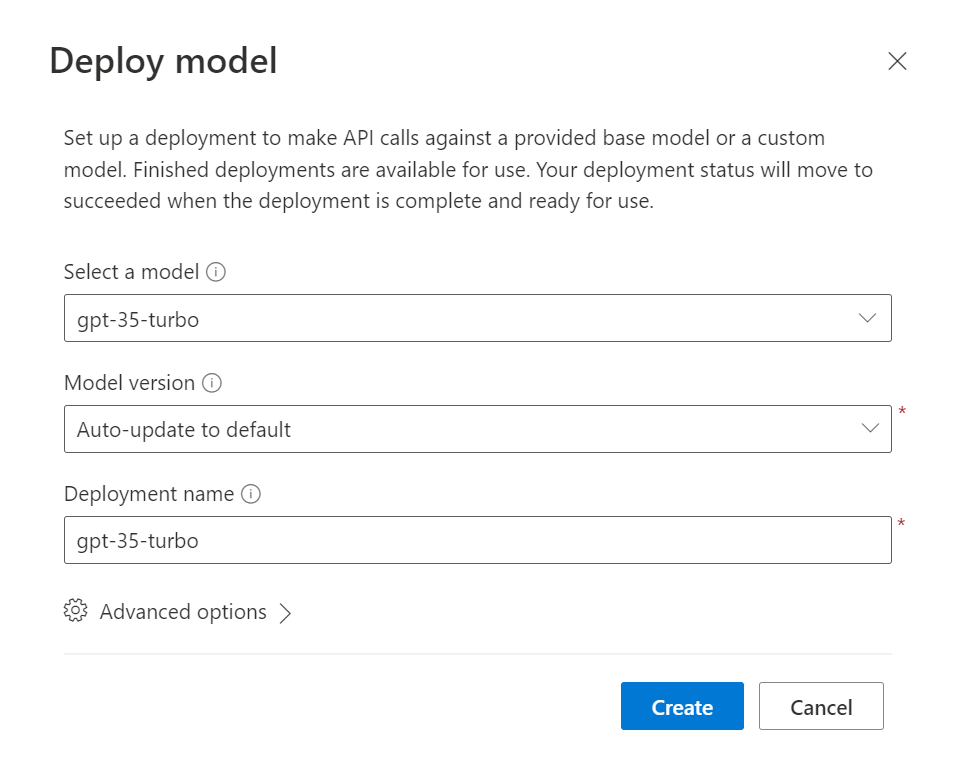
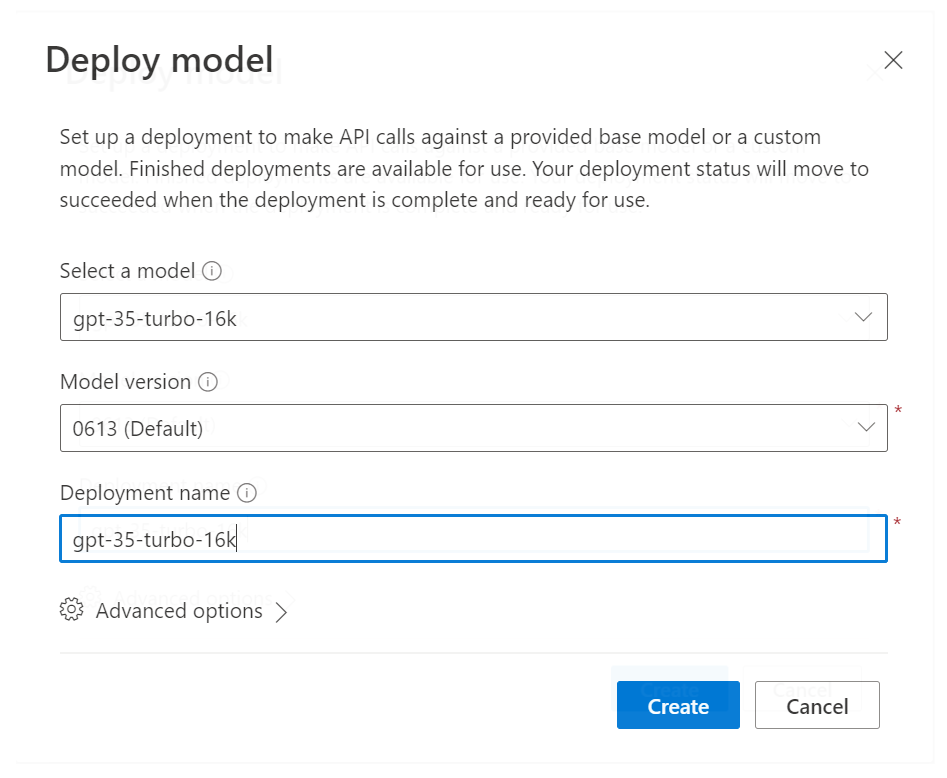
update workshop contents

diff --git a/1. resource provisioning/README.md b/1. resource provisioning/README.md
@@ -28,8 +28,8 @@
     
     ![Untitled](images/image3.png)
     
-    - Select a model : gpt-35-turbo
-    - Model version : Auto-update to default
+    - Select a model : gpt-35-turbo-16k
+    - Model version : 0613 (Default)
     - Deployment name : gpt-35-turbo
 
 ### 음성 서비스 리소스 생성
@@ -43,6 +43,6 @@
     
     - 구독 : 구독 선택
     - 리소스 그룹 : (앞서 생성한) openai-workshop-rg
-    - 지역 : East US
+    - 지역 : Korea Central
     - 이름 : speech-service-<alias>
     - 가격 책정 계층 : Free F0
